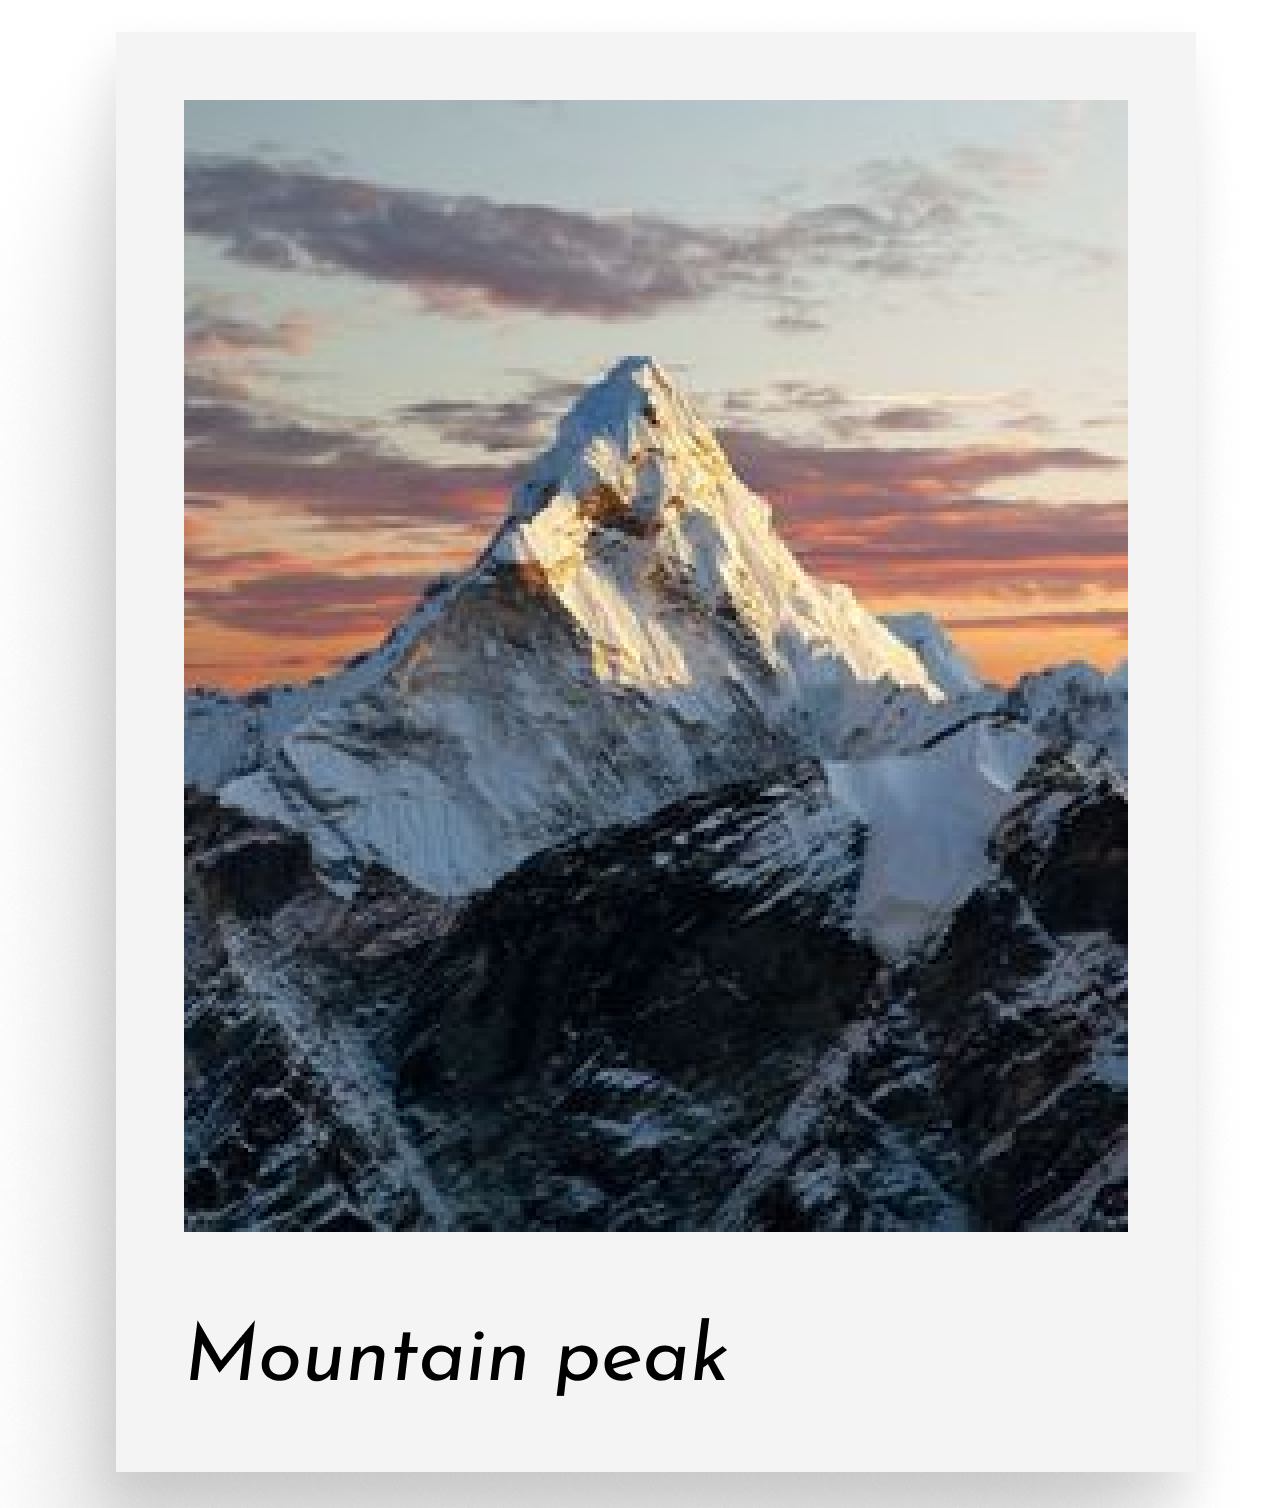
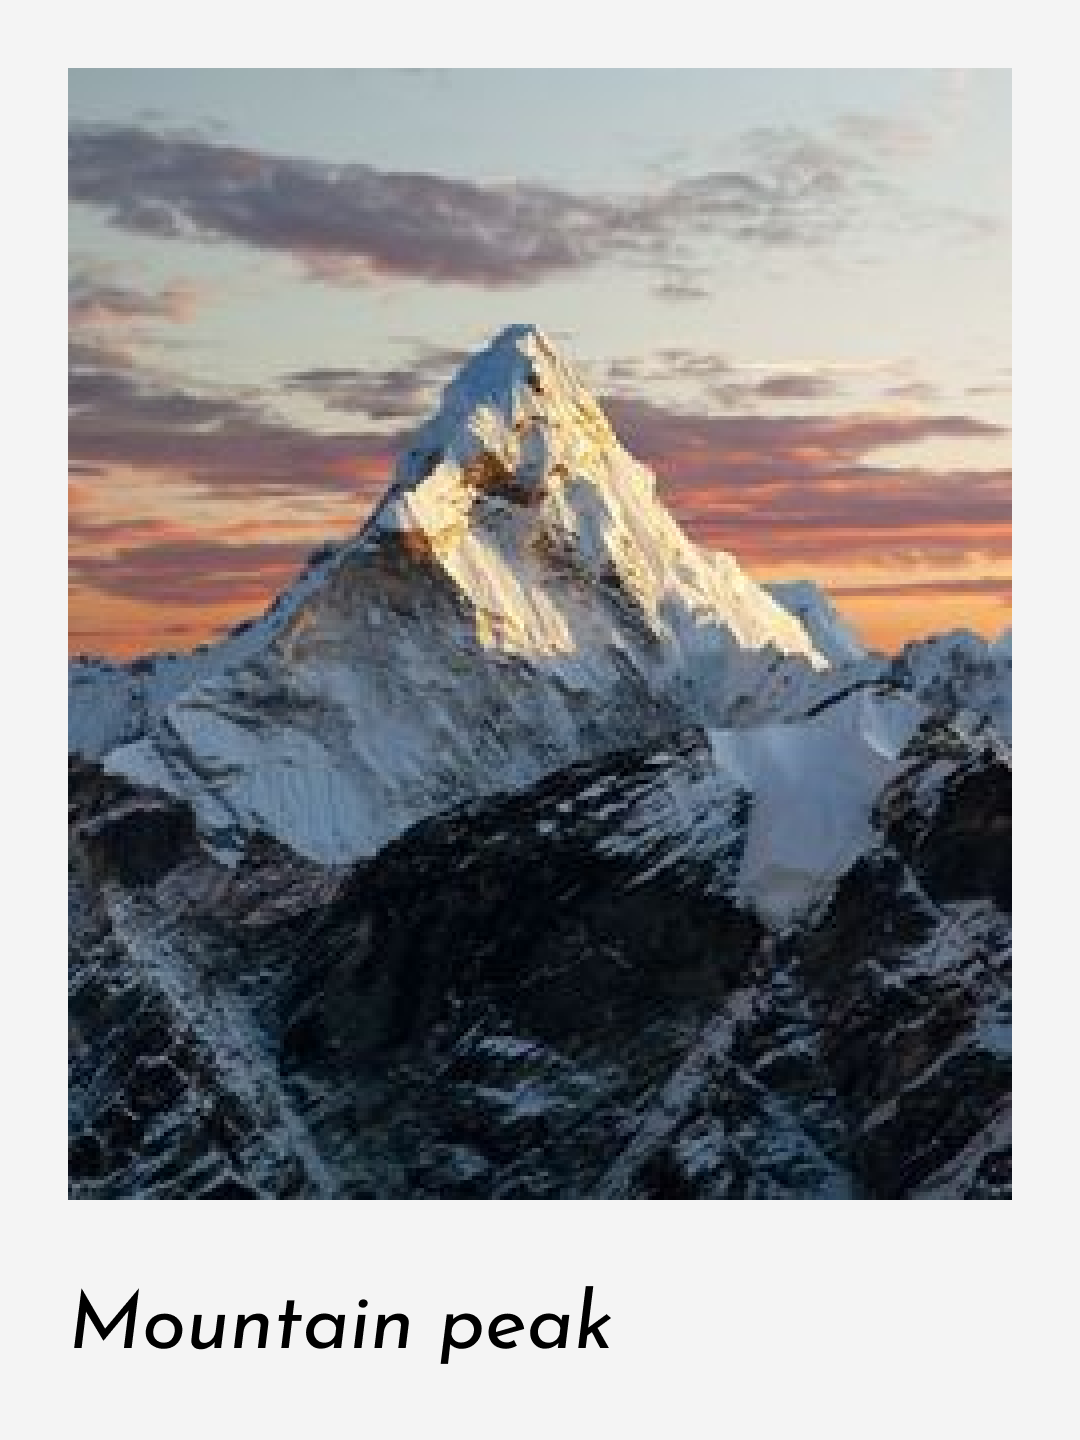
reinstall the places images with correct sizing

diff --git a/public/auth.html b/public/auth.html
@@ -75,10 +75,10 @@
             </div>
             </form>
         
-            <img class="placeCard" id="placeCard6" src="./materials/place card 6.png" alt="">
-            <img class="placeCard" id="placeCard7" src="./materials/place card 7.png" alt="">
-            <img class="placeCard" id="placeCard8" src="./materials/place card 8.png" alt="">
-            <img class="placeCard" id="placeCard9" src="./materials/place card 9.png" alt="">
+            <img class="placeCard" id="placeCard1" src="./materials/place card 6.png" alt="">
+            <img class="placeCard" id="placeCard2" src="./materials/place card 7.png" alt="">
+            <img class="placeCard" id="placeCard3" src="./materials/place card 8.png" alt="">
+            <img class="placeCard" id="placeCard4" src="./materials/place card 9.png" alt="">
 
         </div>
         <div class="logIn"></div>

diff --git a/public/auth.scss b/public/auth.scss
@@ -28,6 +28,7 @@
         flex-direction: column;
         align-items: center;
         color: #45474B;
+        position: relative;
         h2{
             font-size: 48px;
             font-weight: 700;
@@ -147,6 +148,9 @@
                     background-color: #F5EFE6;
                 }
             }
+        }
+        .placeCard{
+            width: 270px;
         }
 
 

diff --git a/public/auth.css b/public/auth.css
@@ -29,6 +29,7 @@
   flex-direction: column;
   align-items: center;
   color: #45474B;
+  position: relative;
 }
 .wrap .registration h2 {
   font-size: 48px;
@@ -138,4 +139,7 @@
 }
 .wrap .registration .registrationForm .buttons .signinButton {
   background-color: #F5EFE6;
+}
+.wrap .registration .placeCard {
+  width: 270px;
 }/*# sourceMappingURL=auth.css.map */
